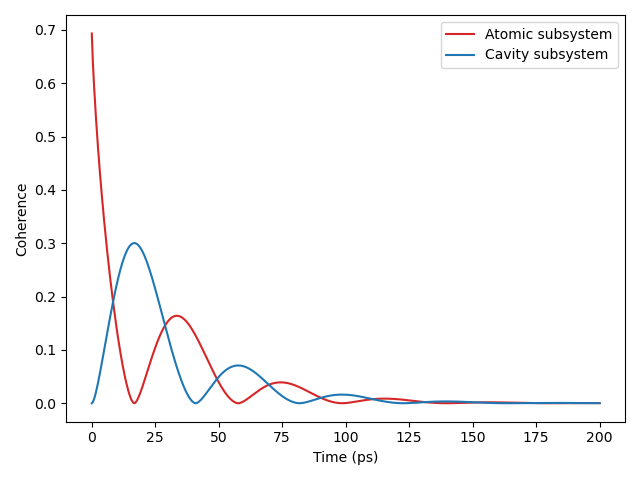
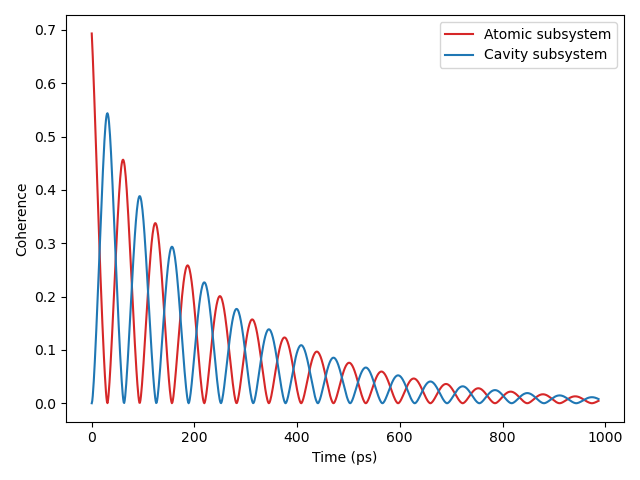
Corrects and finalises JCM simulation parameters and graphs for use in thesis.

diff --git a/Research Project/Code/JCM_Open.py b/Research Project/Code/JCM_Open.py
@@ -3,13 +3,15 @@ import qutip as q
 import numpy as np
 
 ############################## SETUP ######################################
-# https://journals.aps.org/prl/pdf/10.1103/PhysRevLett.58.353 for params 
-tlist = np.linspace(0.0, 200.0, 500) 
+# https://journals.aps.org/prl/pdf/10.1103/PhysRevLett.58.353 for params
+
+t_max = 1500.0  # time in natural units
+tlist = np.linspace(0.0, t_max * 0.658, 1000)  # time in ps conversion done here
 
 # constants
-w = 1.0  # natural units, w = 1, hbar =1
-g = 0.08  # weak regime, g < gamma, gamma_th AND g << w (zeta = 0.01, C = 1)
-N = 30  # num Fock states
+w = 1.0  # natural units, w = 1, hbar =1, meV
+g = 0.05  # strong coupling regime, C = 4g^2/ gamma*gamma_th >> 1, AND g << w AND Z = 4g^2/w_aw_c < 0.04
+N = 2  # num Fock states
 
 # Bases
 basis_atom_e = q.basis(2, 0)
@@ -32,16 +34,16 @@ psi0 = q.tensor(basis_atom_e, basis_qho_0)
 ########################## OPEN SIM SETUP #################################
 
 # Constants
-gamma = 0.09
-gamma_th = 0.09
-kbT = 0.001 # meV
+gamma = 0.01
+gamma_th = 0.01
+kbT = 0.001  # meV
 n_omega = 1 / (
     np.exp(w / kbT) - 1
 )  # low temp regime so n_omega -> 0, optical/IR regime
 
 # Operators
-n0_pop = q.tensor(q.qeye(2), basis_qho_0 * basis_qho_0.dag())  # QHO pop |n=0>
-e_ops = [s_raise * s_lower, n0_pop]
+n1_pop = q.tensor(q.qeye(2), basis_qho_1 * basis_qho_1.dag())  # QHO pop |n=1>
+e_ops = [s_raise * s_lower, n1_pop]
 
 
 L_spont = [np.sqrt(gamma) * s_lower]
@@ -187,8 +189,16 @@ sim_open_both.plot(
 sim_open_spont.plot(
     "OQS_Pop_Spont",
     [
-        {"y_data": expt_open_spont[0], "label": "Atomic subsystem", "colour": "tab:red"},
-        {"y_data": expt_open_spont[1], "label": "Cavity photon number, n = 0", "colour": "tab:blue"},
+        {
+            "y_data": expt_open_spont[0],
+            "label": "Excited Atomic State",
+            "colour": "tab:red",
+        },
+        {
+            "y_data": expt_open_spont[1],
+            "label": "Cavity photon number, n = 1",
+            "colour": "tab:blue",
+        },
     ],
     "Populations",
     savepath="JCM",
@@ -197,8 +207,16 @@ sim_open_spont.plot(
 sim_open_therm.plot(
     "OQS_Pop_Therm",
     [
-        {"y_data": expt_open_therm[0], "label": "Exciton subsystem", "colour": "tab:red"},
-        {"y_data": expt_open_therm[1], "label": "Cavity photon number, n = 0", "colour": "tab:blue"},
+        {
+            "y_data": expt_open_therm[0],
+            "label": "Excited Atomic State",
+            "colour": "tab:red",
+        },
+        {
+            "y_data": expt_open_therm[1],
+            "label": "Cavity photon number, n = 1",
+            "colour": "tab:blue",
+        },
     ],
     "Populations",
     savepath="JCM",
@@ -207,8 +225,16 @@ sim_open_therm.plot(
 sim_open_both.plot(
     "OQS_Pop_Both",
     [
-        {"y_data": expt_open_both[0], "label": "Exciton subsystem", "colour": "tab:red"},
-        {"y_data": expt_open_both[1], "label": "Cavity photon number, n = 0", "colour": "tab:blue"},
+        {
+            "y_data": expt_open_both[0],
+            "label": "Excited Atomic State",
+            "colour": "tab:red",
+        },
+        {
+            "y_data": expt_open_both[1],
+            "label": "Cavity photon number, n = 1",
+            "colour": "tab:blue",
+        },
     ],
     "Populations",
     savepath="JCM",

diff --git a/Research Project/Code/JCM_Open_eg.py b/Research Project/Code/JCM_Open_eg.py
@@ -4,13 +4,13 @@ import numpy as np
 import math
 
 ############################## SETUP ######################################
-
-tlist = np.linspace(0.0, 200.0, 500) # TODO: Correct timecales to ps
+t_max = 1500.0  # time in natural units
+tlist = np.linspace(0.0, t_max * 0.658, 1000)  # time in ps conversion done here
 
 # constants
-w = 1.0  # natural units, w = 1, hbar =1
-g = 0.08  # weak regime, g < gamma, gamma_th AND g << w (zeta = 0.01, C = 1)
-N = 30  # num Fock states
+w = 1.0  # natural units, w = 1, hbar =1, meV
+g = 0.05  # strong coupling regime, C = 4g^2/ gamma*gamma_th >> 1, AND g << w AND Z = 4g^2/w_aw_c < 0.04
+N = 2  # num Fock states
 
 # Bases
 basis_atom_e = q.basis(2, 0)
@@ -34,17 +34,16 @@ psi0 = q.tensor(basis_atom_e + basis_atom_g, basis_qho_0) / math.sqrt(2)
 ########################## OPEN SIM SETUP #################################
 
 # Constants
-gamma = 0.09
-gamma_th = 0.09
+gamma = 0.01
+gamma_th = 0.01
 kbT = 0.001  # meV
 n_omega = 1 / (
     np.exp(w / kbT) - 1
 )  # low temp regime so n_omega -> 0, optical/IR regime
 
 # Operators
-n0_pop = q.tensor(q.qeye(2), basis_qho_0 * basis_qho_0.dag())  # QHO pop |n=0>
-e_ops = [s_raise * s_lower, n0_pop]
-
+n1_pop = q.tensor(q.qeye(2), basis_qho_1 * basis_qho_1.dag())  # QHO pop |n=1>
+e_ops = [s_raise * s_lower, n1_pop]
 
 
 L_spont = [np.sqrt(gamma) * s_lower]
@@ -190,8 +189,16 @@ sim_open_both.plot(
 sim_open_spont.plot(
     "OQS_Pop_Spont_eg",
     [
-        {"y_data": expt_open_spont[0], "label": "Atomic subsystem", "colour": "tab:red"},
-        {"y_data": expt_open_spont[1], "label": "Cavity photon number, n = 0", "colour": "tab:blue"},
+        {
+            "y_data": expt_open_spont[0],
+            "label": "Excited Atomic State",
+            "colour": "tab:red",
+        },
+        {
+            "y_data": expt_open_spont[1],
+            "label": "Cavity photon number, n = 1",
+            "colour": "tab:blue",
+        },
     ],
     "Populations",
     savepath="JCM",
@@ -200,8 +207,16 @@ sim_open_spont.plot(
 sim_open_therm.plot(
     "OQS_Pop_Therm_eg",
     [
-        {"y_data": expt_open_therm[0], "label": "Exciton subsystem", "colour": "tab:red"},
-        {"y_data": expt_open_therm[1], "label": "Cavity photon number, n = 0", "colour": "tab:blue"},
+        {
+            "y_data": expt_open_therm[0],
+            "label": "Excited Atomic State",
+            "colour": "tab:red",
+        },
+        {
+            "y_data": expt_open_therm[1],
+            "label": "Cavity photon number, n = 1",
+            "colour": "tab:blue",
+        },
     ],
     "Populations",
     savepath="JCM",
@@ -210,8 +225,16 @@ sim_open_therm.plot(
 sim_open_both.plot(
     "OQS_Pop_Both_eg",
     [
-        {"y_data": expt_open_both[0], "label": "Exciton subsystem", "colour": "tab:red"},
-        {"y_data": expt_open_both[1], "label": "Cavity photon number, n = 0", "colour": "tab:blue"},
+        {
+            "y_data": expt_open_both[0],
+            "label": "Excited Atomic State",
+            "colour": "tab:red",
+        },
+        {
+            "y_data": expt_open_both[1],
+            "label": "Cavity photon number, n = 1",
+            "colour": "tab:blue",
+        },
     ],
     "Populations",
     savepath="JCM",

diff --git a/Research Project/Code/JCM_Closed.py b/Research Project/Code/JCM_Closed.py
@@ -6,13 +6,13 @@ import numpy as np
 # https://ar5iv.labs.arxiv.org/html/2112.08917v1
 # links for weak/strong regimes
 ############################## SETUP ######################################
-
-tlist = np.linspace(0.0, 100.0, 200)
+t_max = 200.0  # time in natural units
+tlist = np.linspace(0.0, t_max * 0.658, 200)  # time in ps conversion done here
 
 # constants
-w = 1.0  # natural units, w = 1, hbar =1, kb = 1, GHz freq
-g = 0.1
-N = 30  # num Fock states
+w = 1.0  # natural units, w = 1, hbar =1, kb = 1, meV
+g = 0.05  # strong coupling regime, C = 4g^2/ gamma*gamma_th >> 1, AND g << w AND Z = 4g^2/w_aw_c < 0.04
+N = 2  # num Fock states
 
 # Bases
 basis_atom_e = q.basis(2, 0)
@@ -34,8 +34,8 @@ H = 0.5 * w * s_z + w * (adag * a + 0.5) + g * (adag * s_lower + a * s_raise)
 
 
 ############################ SIMULATION ###################################
-n0_pop = q.tensor(q.qeye(2), basis_qho_0 * basis_qho_0.dag())  # QHO pop |n=0>
-e_ops = [s_raise * s_lower, n0_pop]
+n1_pop = q.tensor(q.qeye(2), basis_qho_1 * basis_qho_1.dag())  # QHO pop |n=1>
+e_ops = [s_raise * s_lower, n1_pop]
 
 sim = TLSQHOSimulator(H, psi0, e_ops=e_ops, times=tlist)
 results = sim.evolve()
@@ -51,14 +51,13 @@ sim.plot(
     [
         {
             "y_data": results_expt[0],
-            "label": "Atom excited populations",
+            "label": "Excited Atomic State",
             "colour": "tab:blue",
         },
         {
             "y_data": results_expt[1],
-            "label": "Cavity photon number, n = 0",
+            "label": "Cavity photon number, n = 1",
             "colour": "tab:red",
-            "linestyle": "--",
         },
     ],
     y_label="Expectation Values",

diff --git a/Research Project/Code/JCM_Closed_eg.py b/Research Project/Code/JCM_Closed_eg.py
@@ -7,13 +7,13 @@ import math
 # https://ar5iv.labs.arxiv.org/html/2112.08917v1
 # links for weak/strong regimes
 ############################## SETUP ######################################
-
-tlist = np.linspace(0.0, 200.0, 200)
+t_max = 200.0  # time in natural units
+tlist = np.linspace(0.0, t_max * 0.658, 200)  # time in ps conversion done here
 
 # constants
-w = 1.0  # natural units, w = 1, hbar =1, kb = 1, GHz freq
-g = 0.1
-N = 30  # num Fock states
+w = 1.0  # natural units, w = 1, hbar =1, kb = 1, meV
+g = 0.05  # strong coupling regime, C = 4g^2/ gamma*gamma_th >> 1, AND g << w AND Z = 4g^2/w_aw_c < 0.04
+N = 2  # num Fock states
 
 # Bases
 basis_atom_e = q.basis(2, 0)
@@ -36,8 +36,8 @@ H = 0.5 * w * s_z + w * (adag * a + 0.5) + g * (adag * s_lower + a * s_raise)
 
 
 ############################ SIMULATION ###################################
-n0_pop = q.tensor(q.qeye(2), basis_qho_0 * basis_qho_0.dag())  # QHO pop |n=0>
-e_ops = [s_raise * s_lower, n0_pop]
+n1_pop = q.tensor(q.qeye(2), basis_qho_1 * basis_qho_1.dag())  # QHO pop |n=1>
+e_ops = [s_raise * s_lower, n1_pop]
 
 sim = TLSQHOSimulator(H, psi0, e_ops=e_ops, times=tlist)
 results = sim.evolve()
@@ -59,7 +59,7 @@ sim.plot(
         },
         {
             "y_data": results_expt[1],
-            "label": "Cavity photon number, n = 0",
+            "label": "Cavity photon number, n = 1",
             "colour": "tab:red",
         },
     ],
